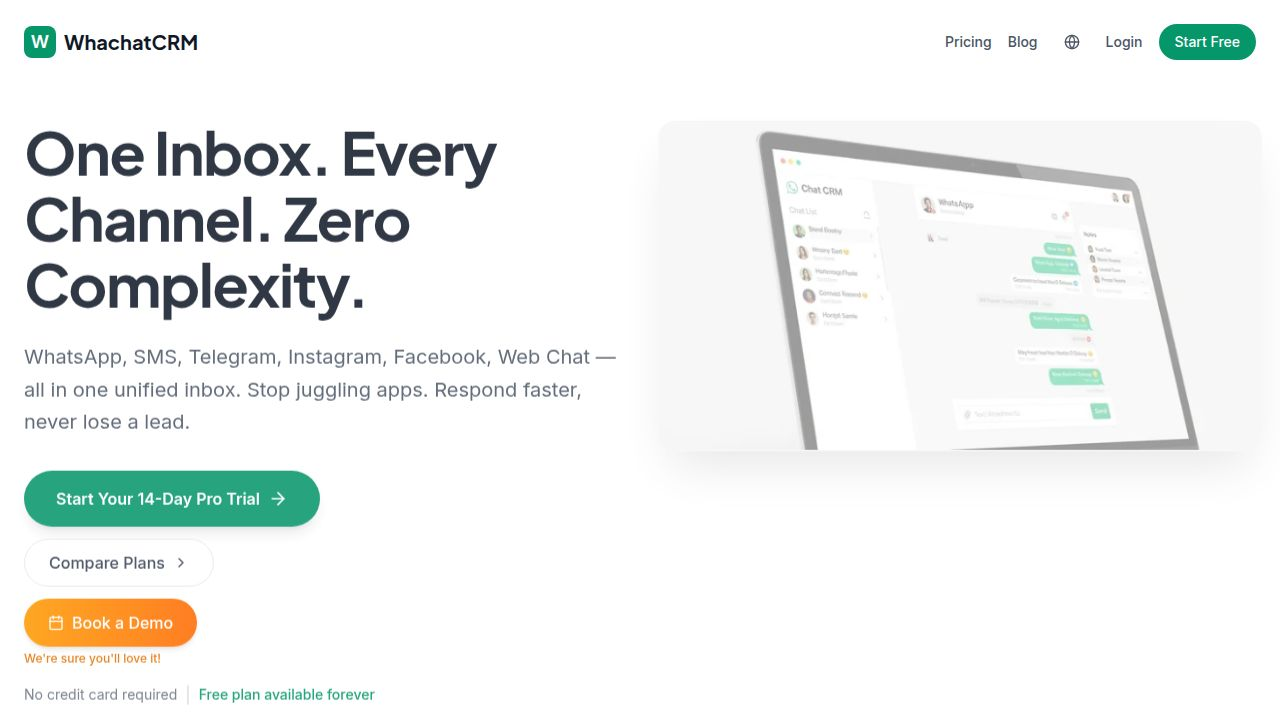
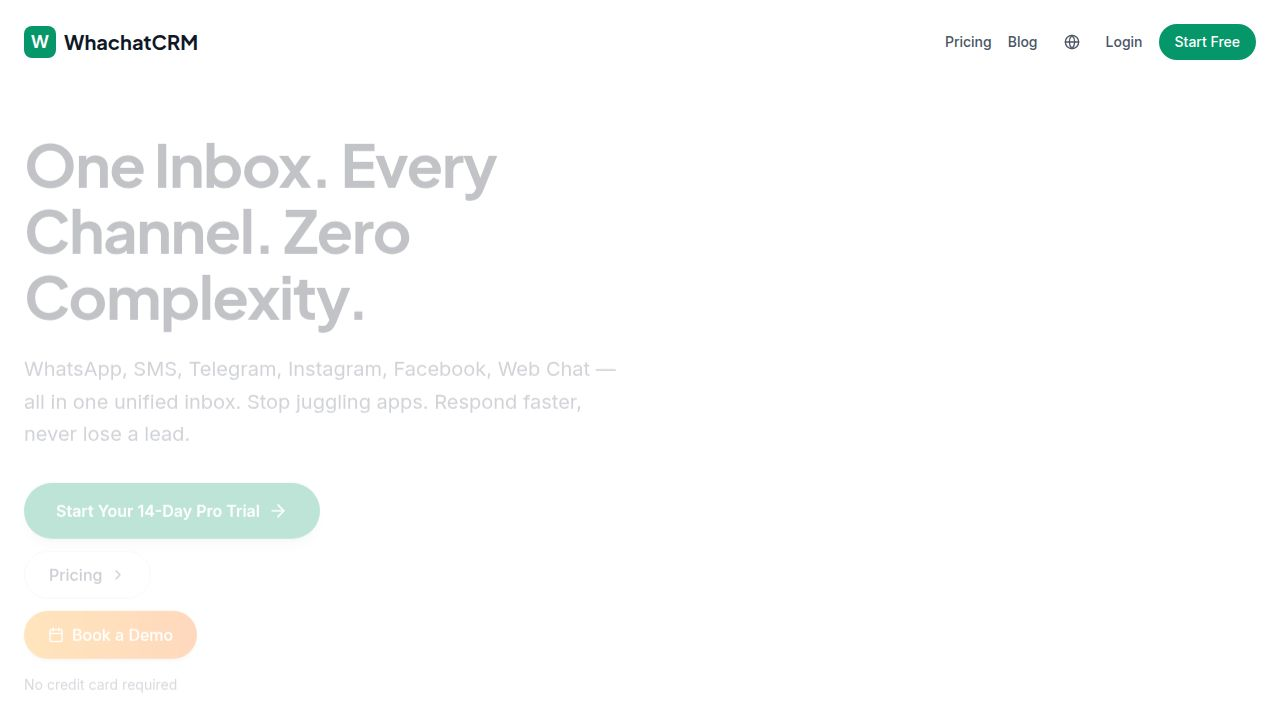
Add translations for Hebrew and Spanish to the landing and authentication pages
Integrates the `react-i18next` library to provide translations for the landing and authentication pages in English, Spanish, and Hebrew. This includes updating JSON locale files and refactoring React components to utilize the `useTranslation` hook for dynamic text rendering.

Replit-Commit-Author: Agent
Replit-Commit-Session-Id: a81f488e-b865-46cf-93a9-aff27149b3c7
Replit-Commit-Checkpoint-Type: full_checkpoint
Replit-Commit-Event-Id: 6ed13ad0-3b91-41cd-a0a3-0b4e849bfa45
Replit-Commit-Screenshot-Url: https://storage.googleapis.com/screenshot-production-us-central1/1e9f0bc4-b7c0-427b-a82e-2d37b78d433c/a81f488e-b865-46cf-93a9-aff27149b3c7/b1nGbht
Replit-Helium-Checkpoint-Created: true

diff --git a/client/src/pages/Auth.tsx b/client/src/pages/Auth.tsx
@@ -1,5 +1,6 @@
 import { useState, useEffect } from "react";
 import { useLocation, Link } from "wouter";
+import { useTranslation } from "react-i18next";
 import { useAuth } from "@/lib/auth-context";
 import { Button } from "@/components/ui/button";
 import { Input } from "@/components/ui/input";
@@ -14,6 +15,7 @@ import {
 } from "@/components/ui/dialog";
 
 export function AuthPage() {
+  const { t } = useTranslation();
   const params = new URLSearchParams(window.location.search);
   const defaultToLogin = params.get('mode') === 'login';
   const [isLogin, setIsLogin] = useState(defaultToLogin);
@@ -103,25 +105,25 @@ export function AuthPage() {
             <span className="font-display font-bold text-xl md:hidden">WhachatCRM</span>
           </div>
           <h1 className="text-2xl md:text-5xl font-display font-bold mb-2 md:mb-4 leading-tight">
-            Manage your <span className="text-brand-green">WhatsApp</span> business.
+            {t('auth.manageWhatsApp')}
           </h1>
           <p className="text-brand-teal/80 text-sm md:text-lg max-w-md leading-relaxed hidden md:block">
-            The all-in-one CRM for WhatsApp-first teams. Organize leads, automate follow-ups, and close more deals.
+            {t('auth.crmDescription')}
           </p>
         </div>
 
         <div className="relative z-10 space-y-4 hidden md:block">
            <div className="flex items-center gap-3">
              <CheckCircle2 className="text-brand-green h-5 w-5" />
-             <span className="font-medium">Sync unlimited chats</span>
+             <span className="font-medium">{t('auth.syncChats')}</span>
            </div>
            <div className="flex items-center gap-3">
              <CheckCircle2 className="text-brand-green h-5 w-5" />
-             <span className="font-medium">Track deal pipeline</span>
+             <span className="font-medium">{t('auth.trackPipeline')}</span>
            </div>
            <div className="flex items-center gap-3">
              <CheckCircle2 className="text-brand-green h-5 w-5" />
-             <span className="font-medium">Automated reminders</span>
+             <span className="font-medium">{t('auth.automatedReminders')}</span>
            </div>
         </div>
 
@@ -139,10 +141,10 @@ export function AuthPage() {
         >
           <div className="mb-6 md:mb-8 text-center">
             <h2 className="text-xl md:text-2xl font-bold text-gray-900 font-display">
-              {isLogin ? "Welcome back" : "Create your account"}
+              {isLogin ? t('auth.welcomeBack') : t('auth.createAccount')}
             </h2>
             <p className="text-gray-500 mt-2 text-sm">
-              {isLogin ? "Enter your details to access your account" : "Start your 14-day free trial, no credit card required"}
+              {isLogin ? t('auth.loginSubtitle') : t('auth.signupSubtitle')}
             </p>
           </div>
 
@@ -150,7 +152,7 @@ export function AuthPage() {
             {!isLogin && (
               <>
                 <div className="space-y-2">
-                  <Label htmlFor="name">Full Name</Label>
+                  <Label htmlFor="name">{t('auth.fullName')}</Label>
                   <Input 
                     id="name" 
                     placeholder="John Doe" 
@@ -162,7 +164,7 @@ export function AuthPage() {
                   />
                 </div>
                 <div className="space-y-2">
-                  <Label htmlFor="businessName">Business Name</Label>
+                  <Label htmlFor="businessName">{t('auth.businessName')}</Label>
                   <Input 
                     id="businessName" 
                     placeholder="My Company" 
@@ -176,7 +178,7 @@ export function AuthPage() {
             )}
             
             <div className="space-y-2">
-              <Label htmlFor="email">Email address</Label>
+              <Label htmlFor="email">{t('auth.email')}</Label>
               <Input 
                 id="email" 
                 type="email" 
@@ -192,7 +194,7 @@ export function AuthPage() {
             </div>
 
             <div className="space-y-2">
-              <Label htmlFor="password">Password</Label>
+              <Label htmlFor="password">{t('auth.password')}</Label>
               <div className="relative">
                 <Input 
                   id="password" 
@@ -233,7 +235,7 @@ export function AuthPage() {
                   htmlFor="remember" 
                   className="text-sm font-normal cursor-pointer text-gray-700"
                 >
-                  Remember me for 30 days
+                  {t('auth.rememberMe')}
                 </Label>
               </div>
             )}
@@ -252,13 +254,13 @@ export function AuthPage() {
                   htmlFor="terms" 
                   className="text-sm font-normal cursor-pointer text-gray-600 leading-tight"
                 >
-                  I agree to the{" "}
+                  {t('auth.agreeTerms')}{" "}
                   <Link href="/privacy-policy">
-                    <a className="text-brand-green hover:underline" target="_blank">Privacy Policy</a>
+                    <a className="text-brand-green hover:underline" target="_blank">{t('auth.privacyPolicy')}</a>
                   </Link>
-                  {" "}and{" "}
+                  {" "}{t('common.and')}{" "}
                   <Link href="/terms-of-use">
-                    <a className="text-brand-green hover:underline" target="_blank">Terms of Use</a>
+                    <a className="text-brand-green hover:underline" target="_blank">{t('auth.termsOfUse')}</a>
                   </Link>
                 </Label>
               </div>
@@ -280,7 +282,7 @@ export function AuthPage() {
                 <Loader2 className="h-4 w-4 animate-spin" />
               ) : (
                 <>
-                  {isLogin ? "Sign In" : "Get Started"}
+                  {isLogin ? t('auth.loginButton') : t('auth.signupButton')}
                   <ArrowRight className="ml-2 h-4 w-4" />
                 </>
               )}
@@ -288,7 +290,7 @@ export function AuthPage() {
           </form>
 
           <div className="mt-6 text-center text-sm text-gray-500">
-            {isLogin ? "Don't have an account? " : "Already have an account? "}
+            {isLogin ? t('auth.noAccount') + " " : t('auth.haveAccount') + " "}
             <button 
               onClick={() => {
                 setIsLogin(!isLogin);
@@ -296,7 +298,7 @@ export function AuthPage() {
               }}
               className="font-semibold text-brand-green hover:underline"
             >
-              {isLogin ? "Sign up" : "Log in"}
+              {isLogin ? t('common.signup') : t('common.login')}
             </button>
           </div>
 
@@ -307,7 +309,7 @@ export function AuthPage() {
               className="text-sm text-gray-400 hover:text-brand-green hover:underline"
               data-testid="link-forgot-password"
             >
-              Forgot your password?
+              {t('auth.forgotPassword')}
             </button>
           </div>
         </motion.div>
@@ -316,16 +318,16 @@ export function AuthPage() {
       <Dialog open={forgotPasswordOpen} onOpenChange={closeForgotPassword}>
         <DialogContent className="sm:max-w-md">
           <DialogHeader>
-            <DialogTitle className="text-xl font-display">Reset your password</DialogTitle>
+            <DialogTitle className="text-xl font-display">{t('auth.resetPassword')}</DialogTitle>
           </DialogHeader>
           
           {!resetSubmitted ? (
             <form onSubmit={handleForgotPassword} className="space-y-4 mt-4">
               <p className="text-sm text-gray-500">
-                Enter your email address and we'll send you a link to reset your password.
+                {t('auth.resetInstructions')}
               </p>
               <div className="space-y-2">
-                <Label htmlFor="reset-email">Email address</Label>
+                <Label htmlFor="reset-email">{t('auth.email')}</Label>
                 <Input
                   id="reset-email"
                   type="email"
@@ -344,7 +346,7 @@ export function AuthPage() {
                   onClick={closeForgotPassword}
                   className="flex-1"
                 >
-                  Cancel
+                  {t('common.cancel')}
                 </Button>
                 <Button
                   type="submit"
@@ -355,7 +357,7 @@ export function AuthPage() {
                   {resetSubmitting ? (
                     <Loader2 className="h-4 w-4 animate-spin" />
                   ) : (
-                    "Send Reset Link"
+                    t('auth.sendResetLink')
                   )}
                 </Button>
               </div>
@@ -365,16 +367,16 @@ export function AuthPage() {
               <div className="h-12 w-12 bg-emerald-100 rounded-full flex items-center justify-center mx-auto mb-4">
                 <CheckCircle2 className="h-6 w-6 text-brand-green" />
               </div>
-              <h3 className="font-semibold text-gray-900 mb-2">Check your email</h3>
+              <h3 className="font-semibold text-gray-900 mb-2">{t('auth.checkEmail')}</h3>
               <p className="text-sm text-gray-500 mb-4">
-                If an account exists for {resetEmail}, you'll receive a password reset link shortly.
+                {t('auth.resetEmailSent')}
               </p>
               <Button
                 onClick={closeForgotPassword}
                 className="bg-brand-green hover:bg-emerald-700"
                 data-testid="button-close-reset"
               >
-                Back to Login
+                {t('common.login')}
               </Button>
             </div>
           )}

diff --git a/client/src/pages/Welcome.tsx b/client/src/pages/Welcome.tsx
@@ -1,6 +1,7 @@
 import { useState, useEffect } from "react";
 import { Link } from "wouter";
 import { Helmet } from "react-helmet";
+import { useTranslation } from "react-i18next";
 import { 
   ArrowRight, 
   CheckCircle2, 
@@ -100,6 +101,7 @@ function IntegrationsHub() {
 
 export function Welcome() {
   const { user } = useAuth();
+  const { t } = useTranslation();
   const [showDemoModal, setShowDemoModal] = useState(false);
 
   return (
@@ -131,26 +133,26 @@ export function Welcome() {
         </div>
         <div className="flex items-center gap-2 md:gap-4">
           <Link href="/pricing">
-            <button className="text-sm font-medium text-gray-600 hover:text-gray-900 hidden sm:block">Pricing</button>
+            <button className="text-sm font-medium text-gray-600 hover:text-gray-900 hidden sm:block">{t('landing.pricing')}</button>
           </Link>
           <Link href="/blog">
-            <button className="text-sm font-medium text-gray-600 hover:text-gray-900 hidden sm:block">Blog</button>
+            <button className="text-sm font-medium text-gray-600 hover:text-gray-900 hidden sm:block">{t('landing.blog')}</button>
           </Link>
           <LanguageSelector variant="compact" className="text-gray-600 hover:text-gray-900 hover:bg-gray-100" />
           {user ? (
             <Link href="/app/chats">
               <button className="text-sm font-medium px-4 py-2 bg-brand-green text-white rounded-full hover:bg-emerald-700">
-                Dashboard
+                {t('landing.dashboard')}
               </button>
             </Link>
           ) : (
             <>
               <Link href="/auth?mode=login">
-                <button className="text-sm font-medium text-gray-600 hover:text-gray-900 hidden sm:block">Login</button>
+                <button className="text-sm font-medium text-gray-600 hover:text-gray-900 hidden sm:block">{t('landing.login')}</button>
               </Link>
               <Link href="/auth">
                 <button className="text-sm font-medium px-4 py-2 bg-brand-green text-white rounded-full hover:bg-emerald-700">
-                  Start Free
+                  {t('landing.startFree')}
                 </button>
               </Link>
             </>
@@ -163,10 +165,10 @@ export function Welcome() {
         <div className="grid md:grid-cols-2 gap-8 md:gap-12 items-start">
           <div className="animate-hero-text">
             <h1 className="text-3xl md:text-5xl lg:text-6xl font-display font-bold text-gray-900 leading-[1.1] mb-4 md:mb-6">
-              One Inbox. Every Channel. Zero Complexity.
+              {t('landing.heroTitle')}
             </h1>
             <p className="text-lg md:text-xl text-gray-600 mb-6 md:mb-8 leading-relaxed">
-              WhatsApp, SMS, Telegram, Instagram, Facebook, Web Chat — all in one unified inbox. Stop juggling apps. Respond faster, never lose a lead.
+              {t('landing.heroSubtitle')}
             </p>
             
             {/* Stacked CTAs for mobile */}
@@ -174,7 +176,7 @@ export function Welcome() {
               <div className="w-full sm:w-auto">
                 <Link href={user ? "/app/chats" : "/auth"}>
                   <button className="w-full sm:w-auto h-14 px-8 bg-brand-green hover:bg-emerald-700 text-white font-semibold rounded-full flex items-center justify-center gap-2 transition-all shadow-lg hover:shadow-xl" data-testid="button-hero-cta">
-                    Start Your 14-Day Pro Trial
+                    {t('landing.startTrial')}
                     <ArrowRight className="h-5 w-5" />
                   </button>
                 </Link>
@@ -182,7 +184,7 @@ export function Welcome() {
               <div className="w-full sm:w-auto">
                 <Link href="/pricing">
                   <button className="w-full sm:w-auto h-12 px-6 bg-white border border-gray-200 text-gray-700 font-medium rounded-full flex items-center justify-center gap-2 hover:bg-gray-50 transition-colors" data-testid="button-hero-pricing">
-                    Compare Plans
+                    {t('landing.pricing')}
                     <ChevronRight className="h-4 w-4" />
                   </button>
                 </Link>
@@ -194,16 +196,13 @@ export function Welcome() {
                   data-testid="button-book-demo"
                 >
                   <Calendar className="h-4 w-4" />
-                  Book a Demo
+                  {t('landing.bookDemo')}
                 </button>
-                <span className="text-xs text-amber-600 mt-1 font-medium">We're sure you'll love it!</span>
               </div>
             </div>
             
             <div className="flex items-center gap-2 mb-6">
-              <span className="text-sm text-gray-500">No credit card required</span>
-              <span className="text-gray-300">|</span>
-              <span className="text-sm text-brand-green font-medium">Free plan available forever</span>
+              <span className="text-sm text-gray-500">{t('landing.noCreditCard')}</span>
             </div>
             
             <div className="flex flex-wrap items-center gap-x-4 gap-y-2 text-sm text-gray-600">
